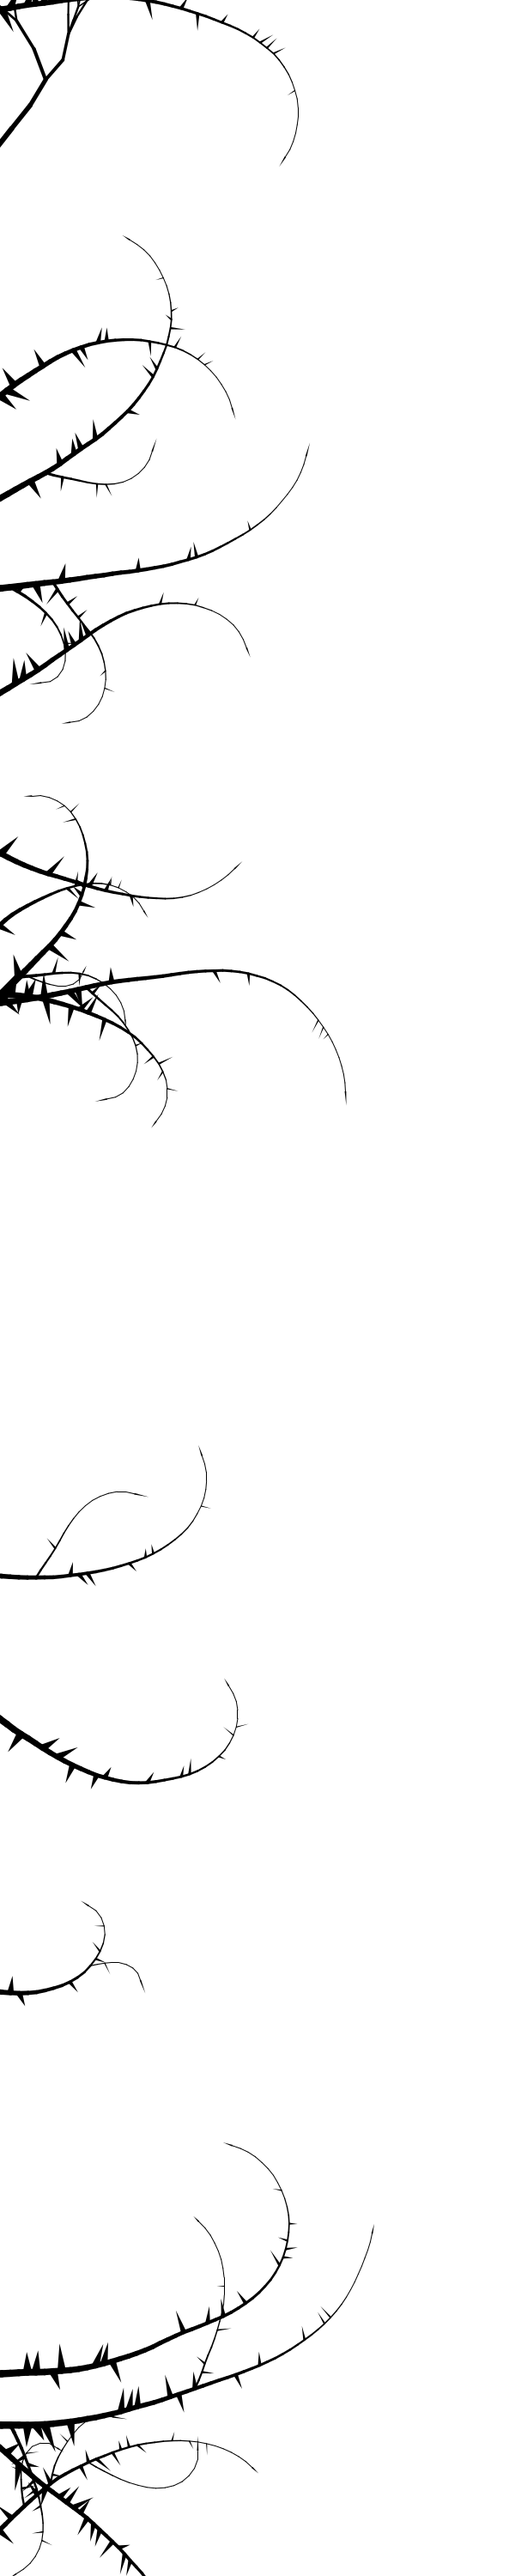
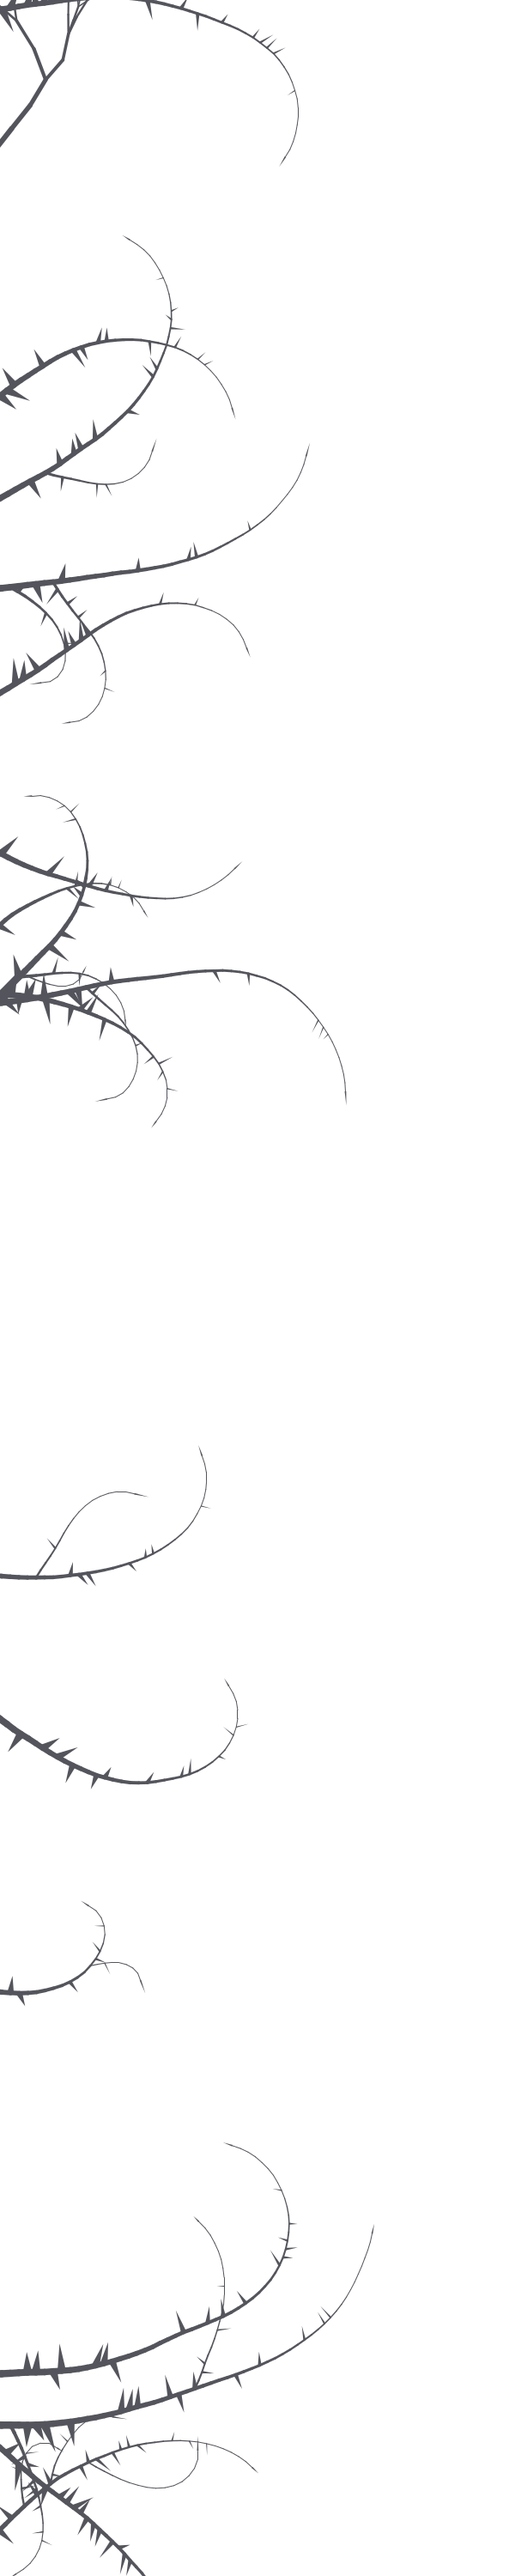
Side tentacles: lighter grey so they show on the dark wall, wider
Claude-Session: https://claude.ai/code/session_01LJjJSBpjBNJiyypTccrE3W

diff --git a/index.html b/index.html
@@ -138,7 +138,7 @@ footer .sig-foot { display: block; width: 64px; height: auto; color: var(--muted
 .sides { display: none }
 @media (min-width: 1260px) {
   .sides { display: block; position: fixed; inset: 0; pointer-events: none; z-index: 4 }
-  .sides i { position: absolute; top: 0; bottom: 0; width: calc((100vw - 1120px) / 2 + 24px); background-repeat: repeat-y; background-size: 300px auto; opacity: .75; mix-blend-mode: multiply }
+  .sides i { position: absolute; top: 0; bottom: 0; width: calc((100vw - 1120px) / 2 + 24px); background-repeat: repeat-y; background-size: 440px auto; opacity: 1 }
   .sides .l { left: 0; background-image: url(img/bg/side-l.png); background-position: left top; -webkit-mask-image: linear-gradient(90deg, #000 55%, transparent); mask-image: linear-gradient(90deg, #000 55%, transparent) }
   .sides .r { right: 0; background-image: url(img/bg/side-r.png); background-position: right 0 top 420px; -webkit-mask-image: linear-gradient(270deg, #000 55%, transparent); mask-image: linear-gradient(270deg, #000 55%, transparent) }
 }

diff --git a/series.html b/series.html
@@ -156,7 +156,7 @@ footer .sig-foot { display: block; width: 64px; height: auto; color: var(--muted
 .sides { display: none }
 @media (min-width: 1260px) {
   .sides { display: block; position: fixed; inset: 0; pointer-events: none; z-index: 4 }
-  .sides i { position: absolute; top: 0; bottom: 0; width: calc((100vw - 1120px) / 2 + 24px); background-repeat: repeat-y; background-size: 300px auto; opacity: .75; mix-blend-mode: multiply }
+  .sides i { position: absolute; top: 0; bottom: 0; width: calc((100vw - 1120px) / 2 + 24px); background-repeat: repeat-y; background-size: 440px auto; opacity: 1 }
   .sides .l { left: 0; background-image: url(img/bg/side-l.png); background-position: left top; -webkit-mask-image: linear-gradient(90deg, #000 55%, transparent); mask-image: linear-gradient(90deg, #000 55%, transparent) }
   .sides .r { right: 0; background-image: url(img/bg/side-r.png); background-position: right 0 top 420px; -webkit-mask-image: linear-gradient(270deg, #000 55%, transparent); mask-image: linear-gradient(270deg, #000 55%, transparent) }
 }

diff --git a/works.html b/works.html
@@ -134,7 +134,7 @@ footer .sig-foot { display: block; width: 64px; height: auto; color: var(--muted
 .sides { display: none }
 @media (min-width: 1260px) {
   .sides { display: block; position: fixed; inset: 0; pointer-events: none; z-index: 4 }
-  .sides i { position: absolute; top: 0; bottom: 0; width: calc((100vw - 1120px) / 2 + 24px); background-repeat: repeat-y; background-size: 300px auto; opacity: .75; mix-blend-mode: multiply }
+  .sides i { position: absolute; top: 0; bottom: 0; width: calc((100vw - 1120px) / 2 + 24px); background-repeat: repeat-y; background-size: 440px auto; opacity: 1 }
   .sides .l { left: 0; background-image: url(img/bg/side-l.png); background-position: left top; -webkit-mask-image: linear-gradient(90deg, #000 55%, transparent); mask-image: linear-gradient(90deg, #000 55%, transparent) }
   .sides .r { right: 0; background-image: url(img/bg/side-r.png); background-position: right 0 top 420px; -webkit-mask-image: linear-gradient(270deg, #000 55%, transparent); mask-image: linear-gradient(270deg, #000 55%, transparent) }
 }

diff --git a/404.html b/404.html
@@ -44,7 +44,7 @@ footer .sig-foot { display: block; width: 64px; height: auto; color: var(--muted
 .sides { display: none }
 @media (min-width: 1260px) {
   .sides { display: block; position: fixed; inset: 0; pointer-events: none; z-index: 4 }
-  .sides i { position: absolute; top: 0; bottom: 0; width: calc((100vw - 1120px) / 2 + 24px); background-repeat: repeat-y; background-size: 300px auto; opacity: .75; mix-blend-mode: multiply }
+  .sides i { position: absolute; top: 0; bottom: 0; width: calc((100vw - 1120px) / 2 + 24px); background-repeat: repeat-y; background-size: 440px auto; opacity: 1 }
   .sides .l { left: 0; background-image: url(img/bg/side-l.png); background-position: left top; -webkit-mask-image: linear-gradient(90deg, #000 55%, transparent); mask-image: linear-gradient(90deg, #000 55%, transparent) }
   .sides .r { right: 0; background-image: url(img/bg/side-r.png); background-position: right 0 top 420px; -webkit-mask-image: linear-gradient(270deg, #000 55%, transparent); mask-image: linear-gradient(270deg, #000 55%, transparent) }
 }

diff --git a/about.html b/about.html
@@ -79,7 +79,7 @@ footer .sig-foot { display: block; width: 64px; height: auto; color: var(--muted
 .sides { display: none }
 @media (min-width: 1260px) {
   .sides { display: block; position: fixed; inset: 0; pointer-events: none; z-index: 4 }
-  .sides i { position: absolute; top: 0; bottom: 0; width: calc((100vw - 1120px) / 2 + 24px); background-repeat: repeat-y; background-size: 300px auto; opacity: .75; mix-blend-mode: multiply }
+  .sides i { position: absolute; top: 0; bottom: 0; width: calc((100vw - 1120px) / 2 + 24px); background-repeat: repeat-y; background-size: 440px auto; opacity: 1 }
   .sides .l { left: 0; background-image: url(img/bg/side-l.png); background-position: left top; -webkit-mask-image: linear-gradient(90deg, #000 55%, transparent); mask-image: linear-gradient(90deg, #000 55%, transparent) }
   .sides .r { right: 0; background-image: url(img/bg/side-r.png); background-position: right 0 top 420px; -webkit-mask-image: linear-gradient(270deg, #000 55%, transparent); mask-image: linear-gradient(270deg, #000 55%, transparent) }
 }

diff --git a/contact.html b/contact.html
@@ -76,7 +76,7 @@ footer .sig-foot { display: block; width: 64px; height: auto; color: var(--muted
 .sides { display: none }
 @media (min-width: 1260px) {
   .sides { display: block; position: fixed; inset: 0; pointer-events: none; z-index: 4 }
-  .sides i { position: absolute; top: 0; bottom: 0; width: calc((100vw - 1120px) / 2 + 24px); background-repeat: repeat-y; background-size: 300px auto; opacity: .75; mix-blend-mode: multiply }
+  .sides i { position: absolute; top: 0; bottom: 0; width: calc((100vw - 1120px) / 2 + 24px); background-repeat: repeat-y; background-size: 440px auto; opacity: 1 }
   .sides .l { left: 0; background-image: url(img/bg/side-l.png); background-position: left top; -webkit-mask-image: linear-gradient(90deg, #000 55%, transparent); mask-image: linear-gradient(90deg, #000 55%, transparent) }
   .sides .r { right: 0; background-image: url(img/bg/side-r.png); background-position: right 0 top 420px; -webkit-mask-image: linear-gradient(270deg, #000 55%, transparent); mask-image: linear-gradient(270deg, #000 55%, transparent) }
 }
